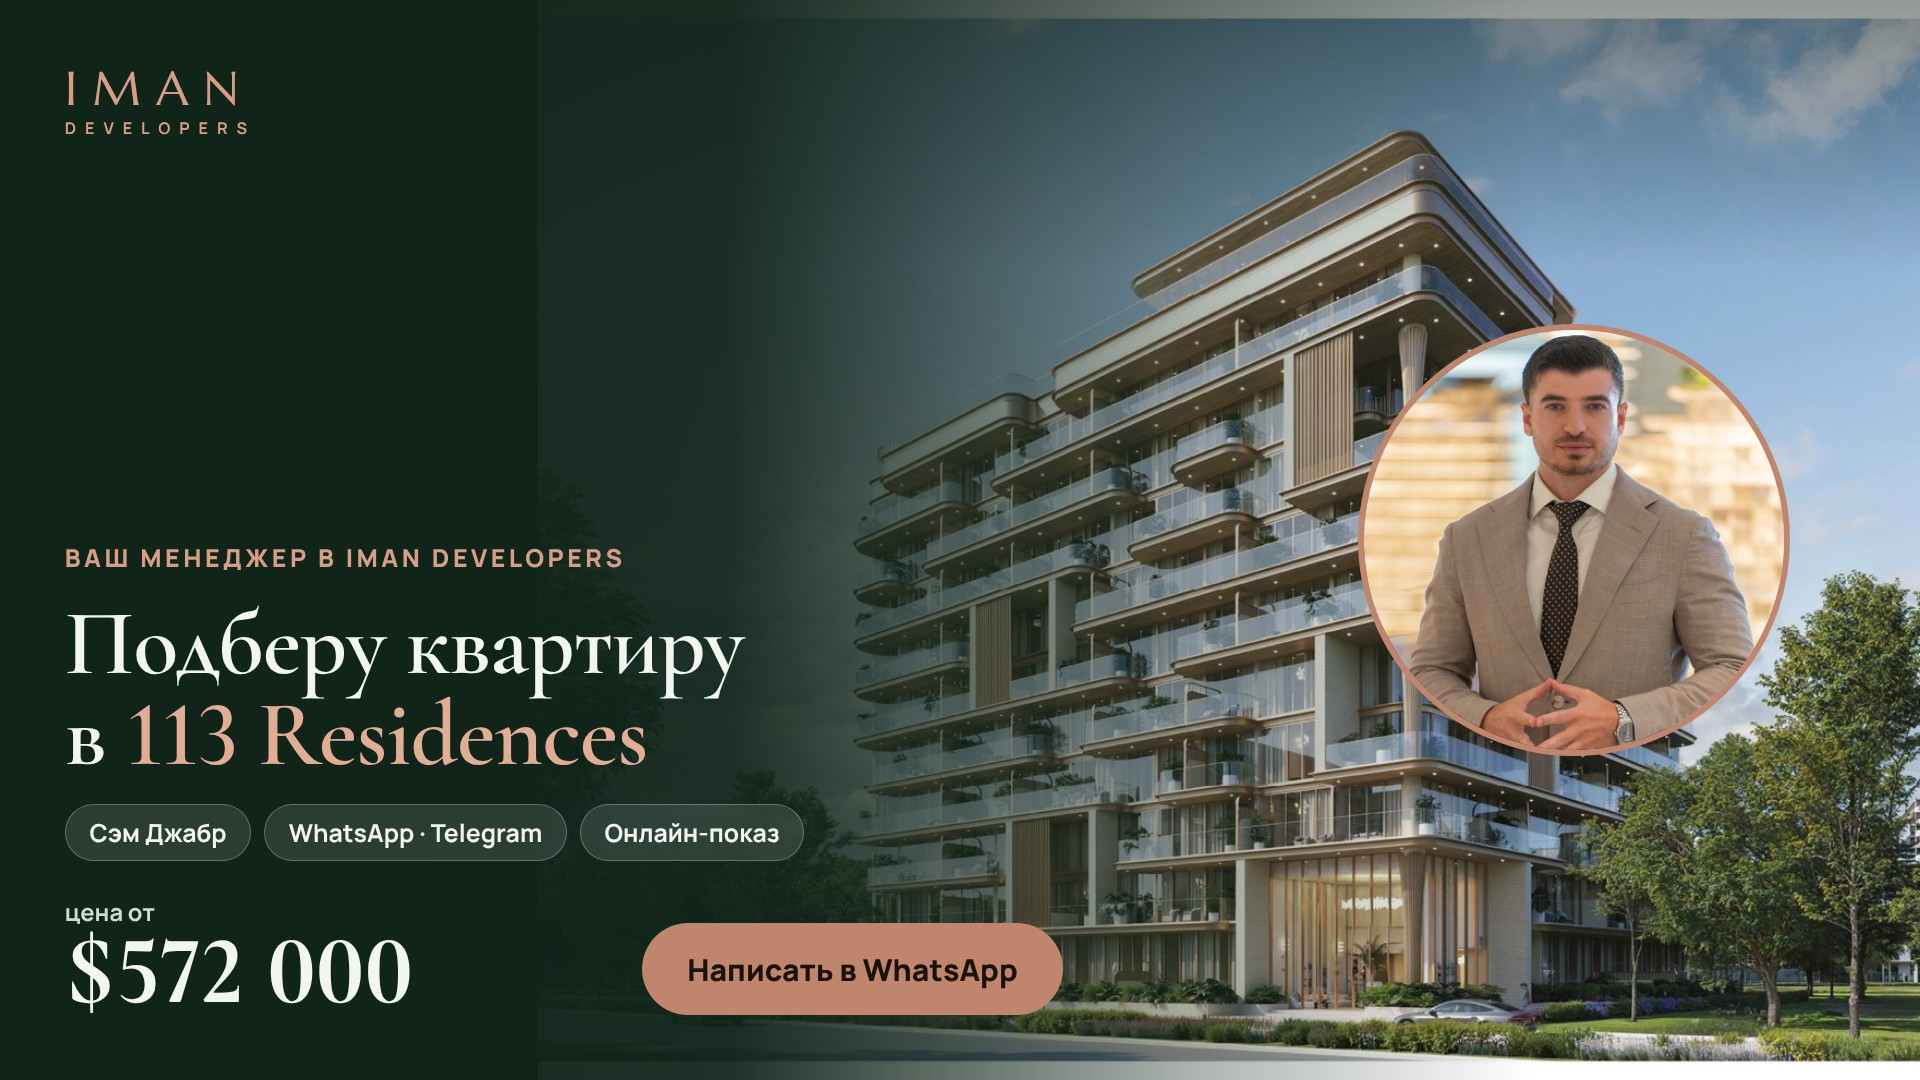
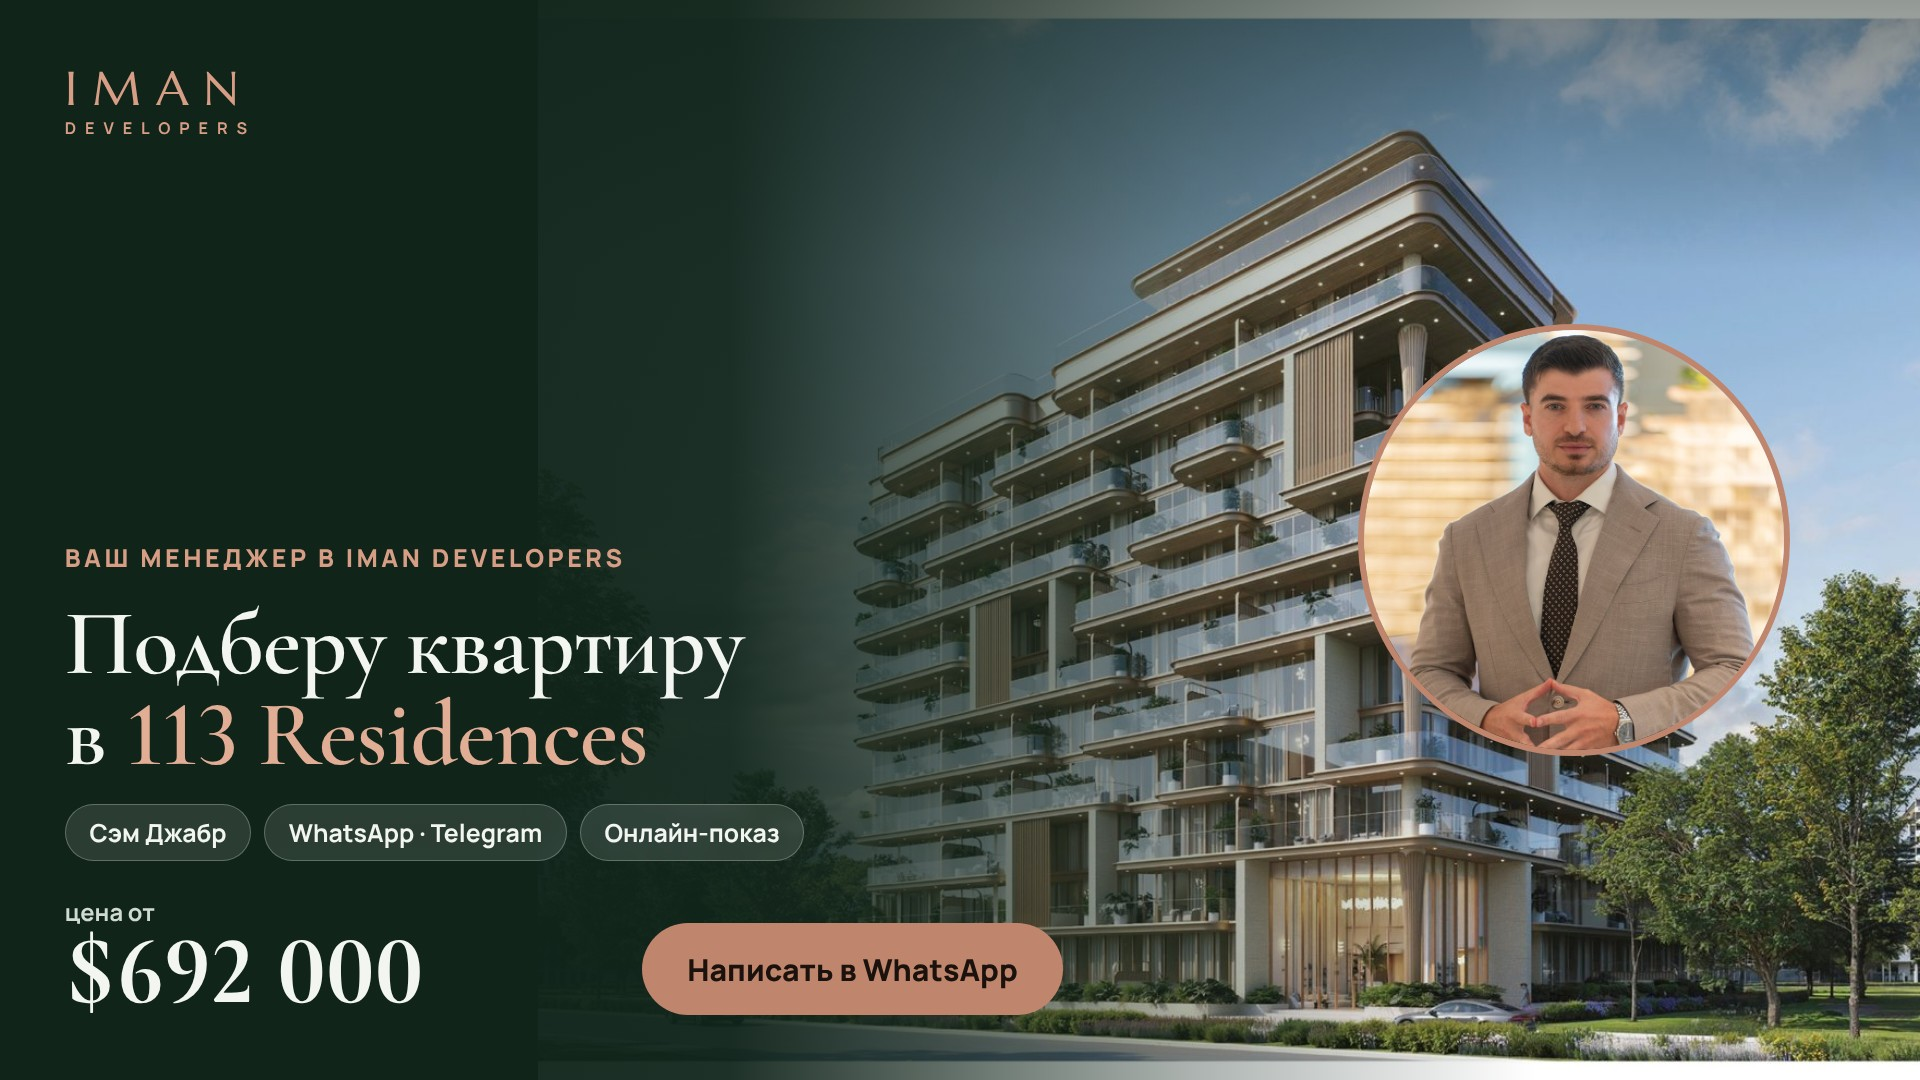
113 landing page and ads: five 2-3 bedroom layouts with from prices instead of the full unit list
Claude-Session: https://claude.ai/code/session_01EbGWXyCGooAu38mNvvbANi

Changed region(s): [[0.0625, 0.8556, 0.2188, 0.9472]]

diff --git a/marketing/tools/yandex_ads.py b/marketing/tools/yandex_ads.py
@@ -28,8 +28,12 @@ def from_usd(ids):
 
 
 R = byId["113-residences"]
-FROM = from_usd(["113-residences"])
-CASH = "$" + f"{int(min(u['op'] for u in R['units']) * (1 - R['cash']) * USD) // 1000 * 1000:,}".replace(",", " ")
+# Same layouts as the landing page: 2 and 3 bedrooms only.
+LAYOUTS = {"two bedroom", "two bedroom with study", "two bedroom with maid", "three bedroom with study", "three bedroom with maid"}
+SHOWN = [u for u in R["units"] if u["type"].lower() in LAYOUTS]
+usd = lambda aed: "$" + f"{int(aed * USD) // 1000 * 1000:,}".replace(",", " ")
+FROM = usd(min(price(u, R) for u in SHOWN))
+CASH = usd(min(u["op"] for u in SHOWN) * (1 - R["cash"]))
 img = lambda rel: "file://" + os.path.join(SITE, rel)
 EB = "113 Residences · Аль-Суфух, Дубай"
 
@@ -44,7 +48,7 @@ ADS = [
          price=("цена от", FROM), cta="Рассчитать платежи"),
     dict(slug="03-113-cash", photo=img("assets/113-residences-main.webp"), pos="66% 50%",
          eb=EB, h="Скидка <span>14%</span><br>при 100% оплате",
-         chips=["1–3 спальни", "Смарт-замки Hafele", "Бассейн на крыше"],
+         chips=["2–3 спальни", "Смарт-замки Hafele", "Бассейн на крыше"],
          price=("цена от", CASH), cta="Узнать цены"),
     dict(slug="04-113-location", photo=img("assets/113-residences-main.webp"), pos="0% 50%",
          eb=EB, h="1 минута до парка,<br><span>3 минуты до пляжа</span>",

diff --git a/README.md b/README.md
@@ -15,7 +15,7 @@ Sam Jabr's IMAN Developers portfolio page: projects, prices and available units,
 
 ## Yandex Direct landing page
 
-- `site/landing.tpl.html`, `site/landing_build.py`: landing page for Yandex Direct ads about 113 Residences only, in Russian (default), English and Arabic, with a lead form, WhatsApp, Telegram, call and e-mail. It writes `site/ru/index.html` and `site/ru/privacy.html` (privacy policy, needed for the form).
+- `site/landing.tpl.html`, `site/landing_build.py`: landing page for Yandex Direct ads about 113 Residences only (five layouts, 2BR to 3BR + maid, with "from" prices; no unit list), in Russian (default), English and Arabic, with a lead form, WhatsApp, Telegram, call and e-mail. It writes `site/ru/index.html` and `site/ru/privacy.html` (privacy policy, needed for the form).
 - Address: https://samjabrdxb.github.io/Iman-developers-/ru/ (GitHub Pages publishes the `site/` folder on every push to `main`, see `.github/workflows/pages.yml`).
 - Telegram username, lead e-mail and the Yandex Metrica counter ID are set at the top of `site/landing_build.py`. Without an e-mail, the form opens WhatsApp with the lead filled in.
 - Metrica goals for Yandex Direct: `lead_form`, `lead_wa_fallback`, `click_whatsapp`, `click_telegram`, `click_email`, `call`, `open_units`.
